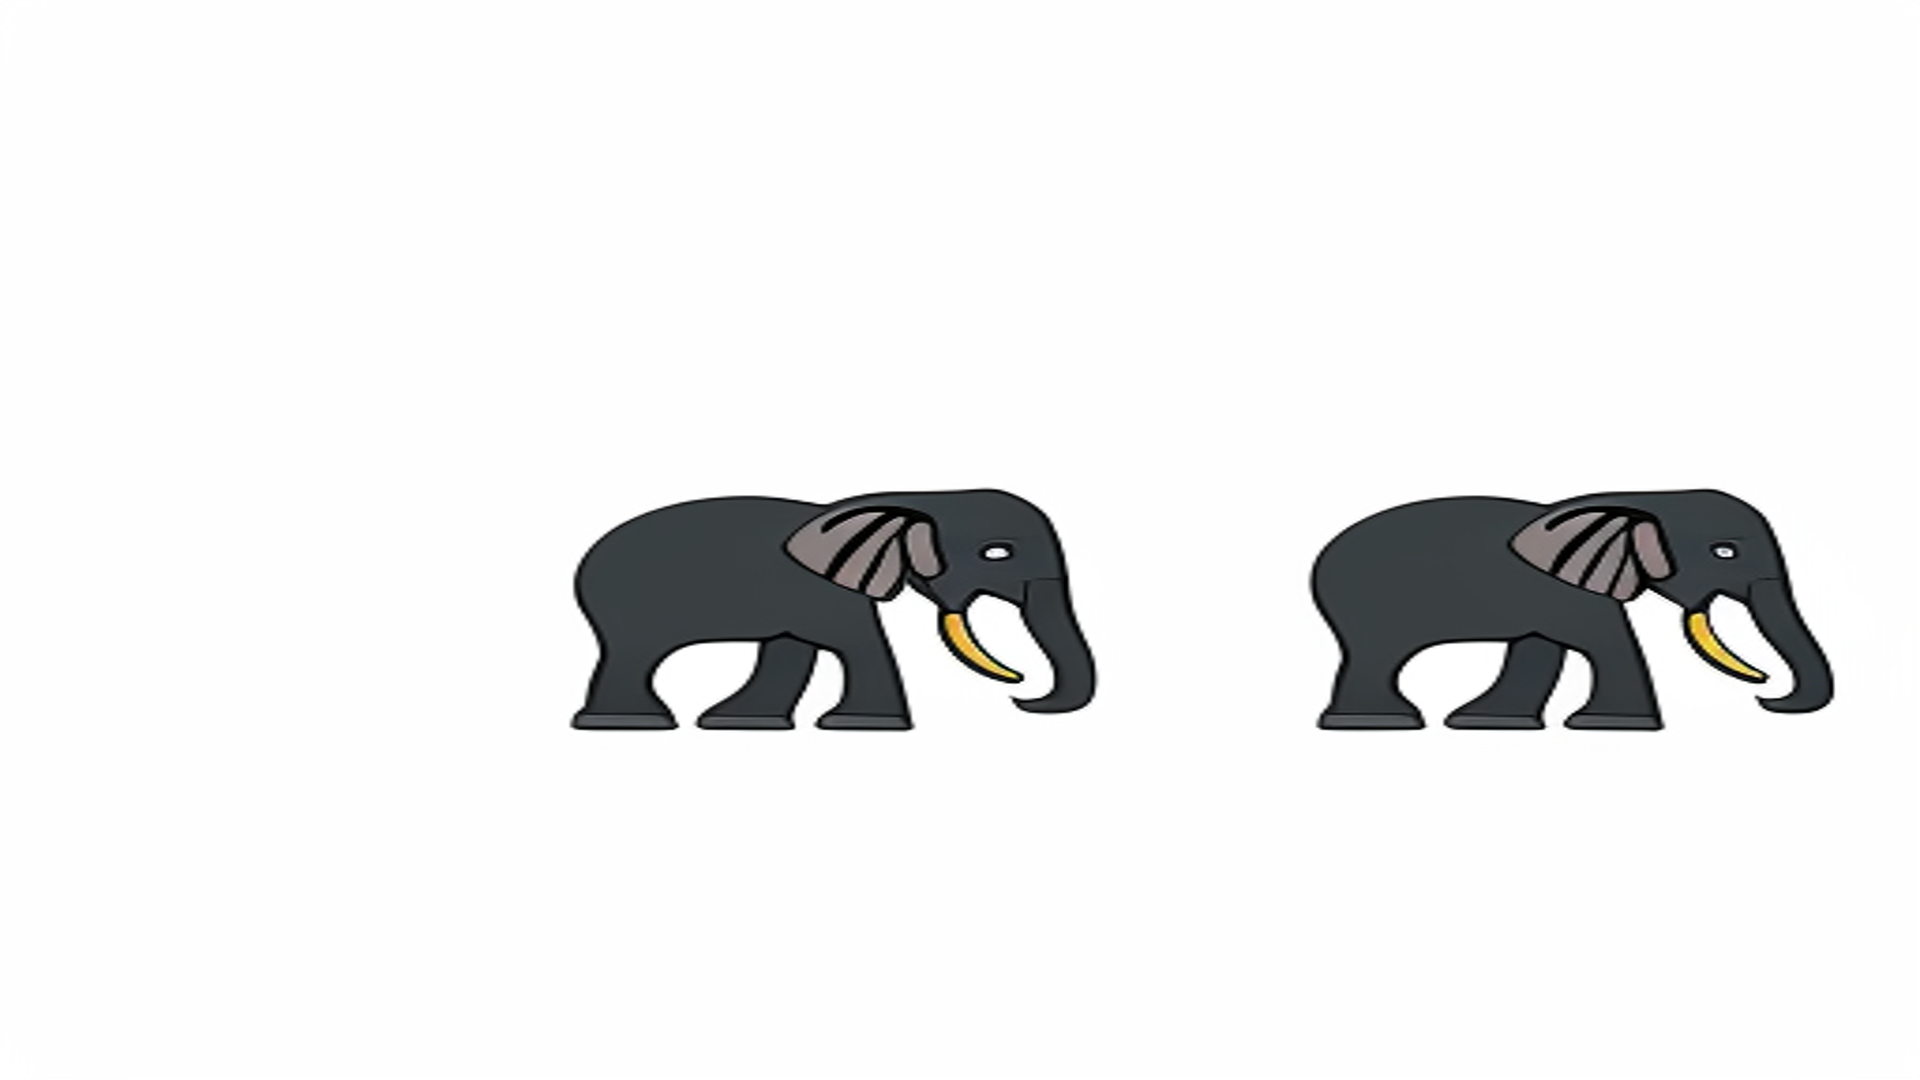
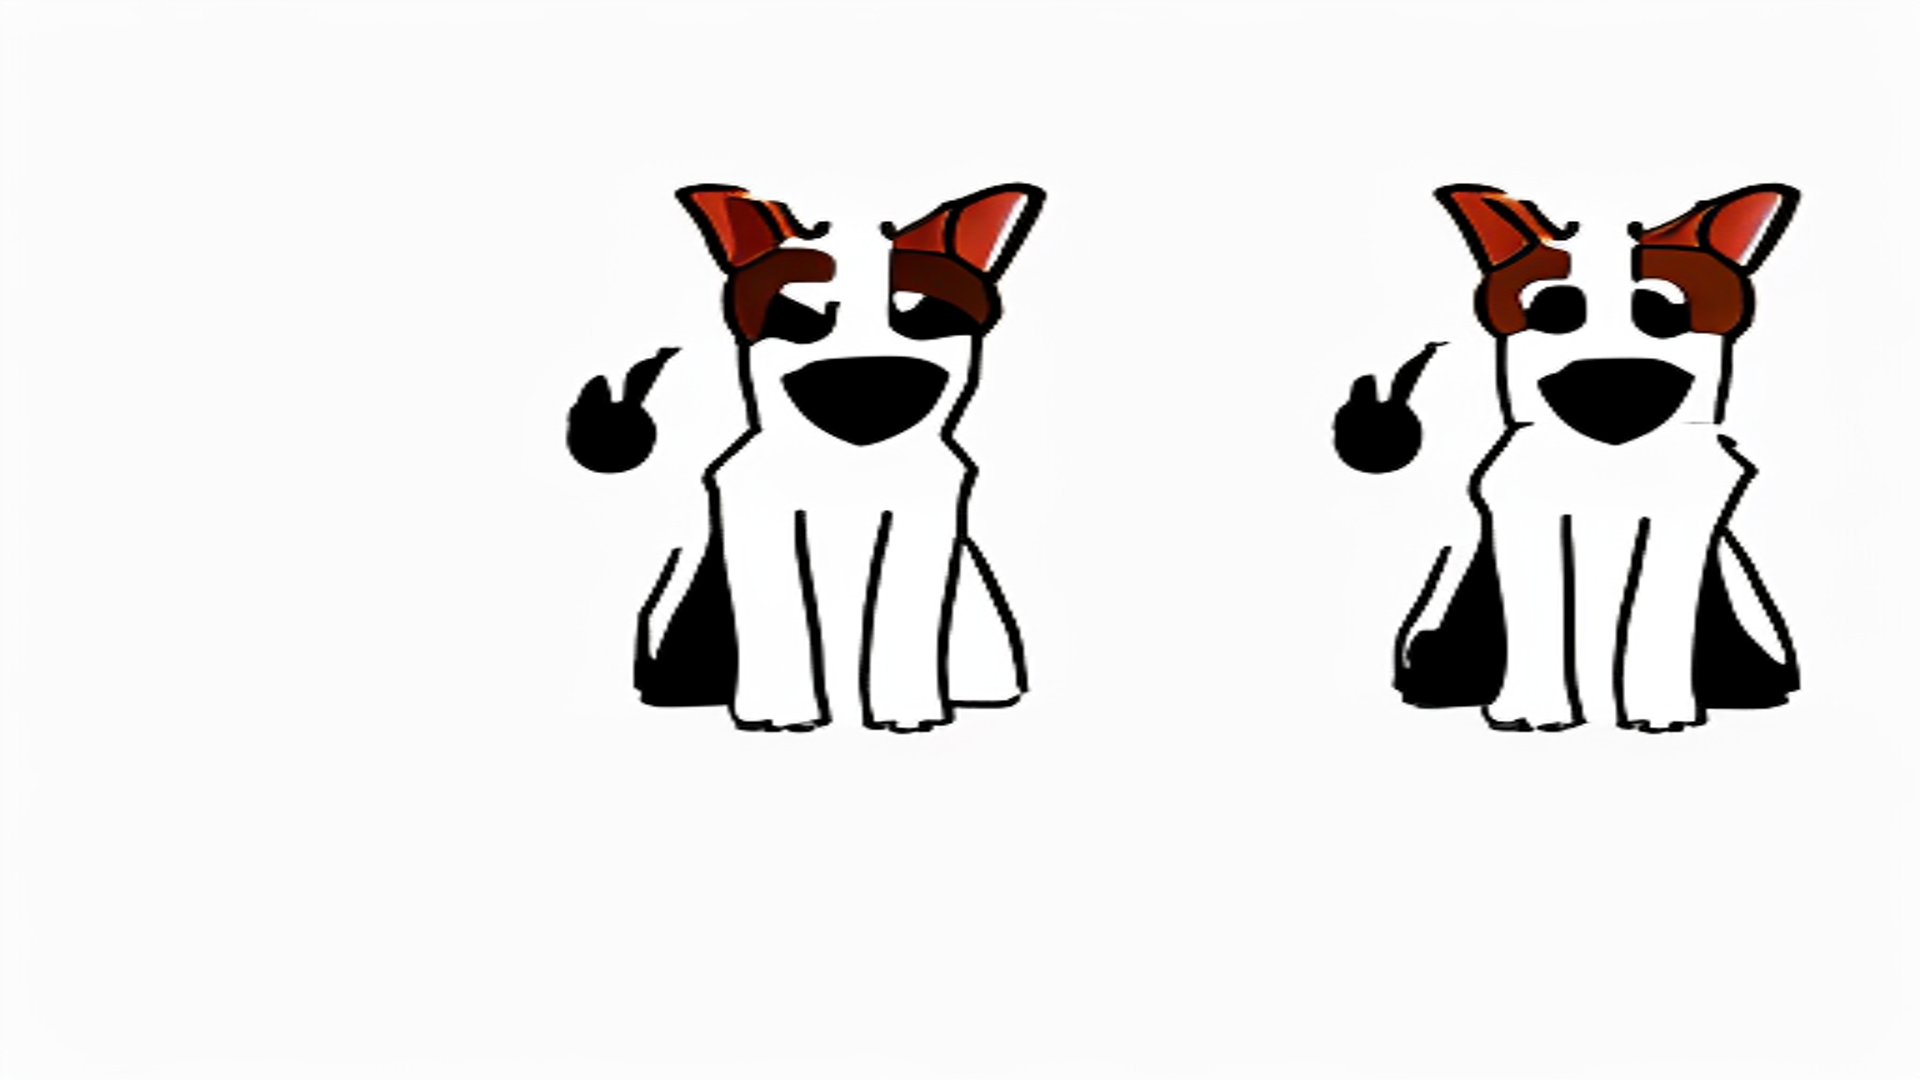
ubicacion de datos sencibles 2

Changed region(s): [[0.2812, 0.1528, 0.5938, 0.7028], [0.6562, 0.1528, 0.9688, 0.7028]]

diff --git a/crearImagen.py b/crearImagen.py
@@ -1,5 +1,5 @@
 import requests
-
+import variables 
 
 
 
@@ -15,7 +15,7 @@ def send_to_colab(img_url, mask_url, prompt,nombre):
       None
   """
 
-  colab_url = "https://773b-34-16-166-146.ngrok-free.app/process"  # Update with your Colab URL
+  colab_url = variables.conexionColab+"/process"  # Update with your Colab URL
   data = {
       "img_url": img_url,
       "mask_url": mask_url,
@@ -29,7 +29,7 @@ def send_to_colab(img_url, mask_url, prompt,nombre):
     print(f"Imagen procesada en: {result_url}")
 
     # Replace with your desired download logic (consider error handling)
-    download_image(result_url, "C:/Users/MOISES NEGRETE/Documents/Proyectos/Eduai/EduAi/imagenesIA/"+nombre)
+    download_image(result_url, variables.miLocal+nombre)
   else:
     print(f"Error, Comunicarse con MOISES NEGRETE 3122642360: {response.status_code}")
 

diff --git a/variables.py b/variables.py
@@ -7,3 +7,6 @@ VariableDescripcionFondo = ""
 VariableDescripcionAnimal = ""
 apiKeyGemini="AIzaSyAnpiIg_zMV7U_LRgJ266dxFMzPGTiTcOQ"
 
+conexionColab="https://786e-34-82-11-255.ngrok-free.app"
+
+miLocal="C:/Users/MOISES NEGRETE/Documents/Proyectos/Eduai/EduAi/imagenesIA/"

diff --git a/eduai.py b/eduai.py
@@ -75,7 +75,7 @@ def procesar():
     # Imprimir las variables en la consola y devolver una respuesta
     print_variables()
     
-    #crearImagenIA()
+    crearImagenIA()
     
     #chroma()
     
